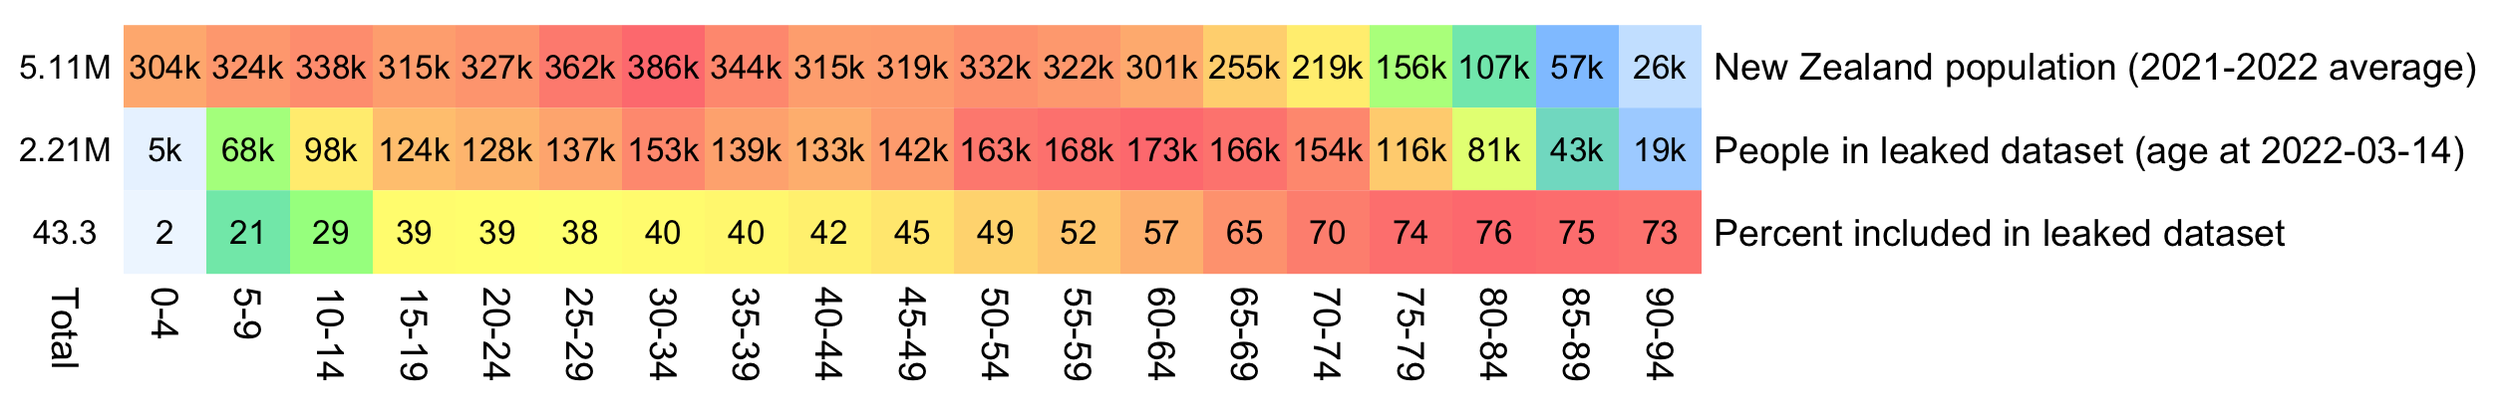
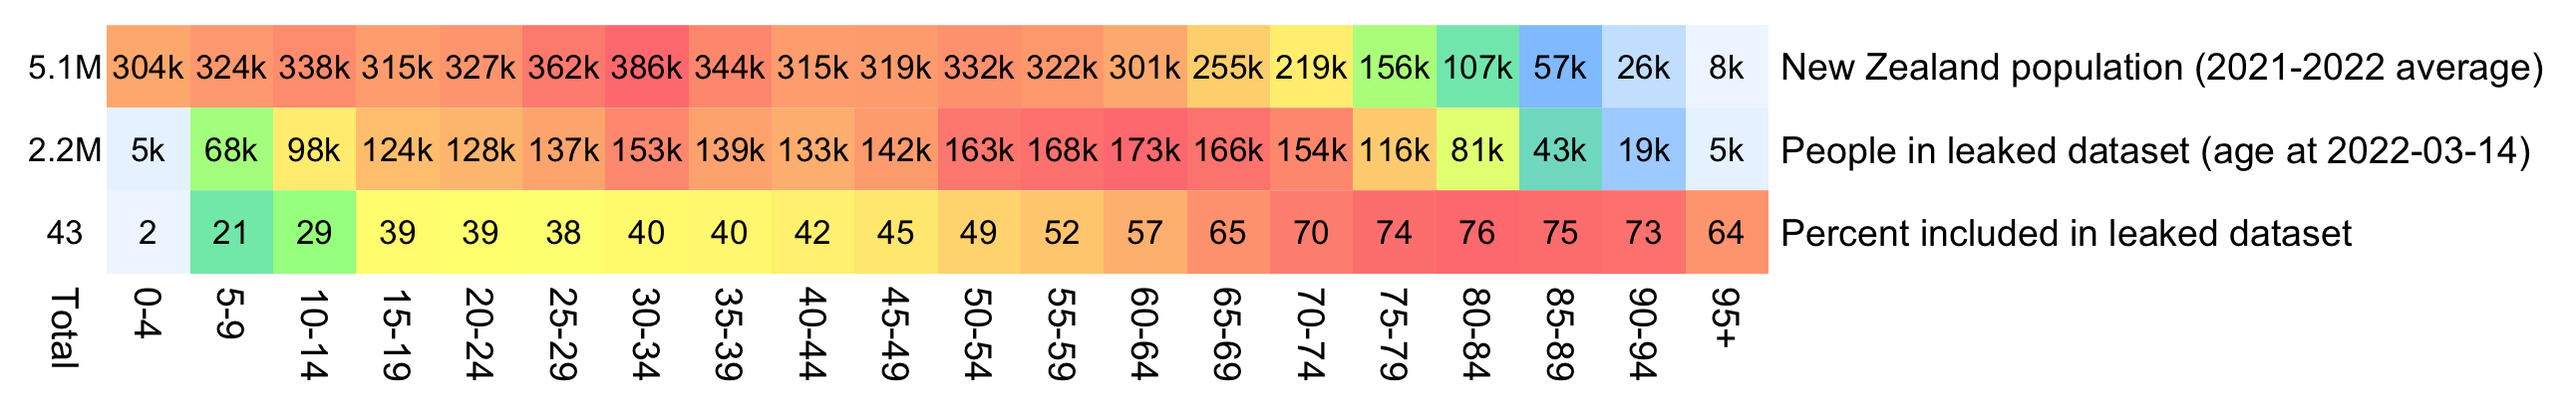
a

Changed region(s): [[0.0, 0.0624, 0.9917, 0.9353], [0.0, 0.8106, 0.031, 0.8729], [0.0, 0.7482, 0.031, 0.7794]]

diff --git a/moar.html b/moar.html
@@ -51,6 +51,7 @@ th{background:#eee;text-align:left;font-weight:bold}
 <li><a href=#Background>Background</a></li>
 <li><a href=#The_data_is_obfuscated_and_only_contains_records_from_a_pay_per_dose_system>The data is obfuscated and only contains records from a pay-per-dose system</a></li>
 <li><a href=#Reverse_engineering_the_age_column>Reverse engineering the age column</a></li>
+<li><a href=#Representation_of_age_groups_in_the_dataset>Representation of age groups in the dataset</a></li>
 <li><a href=#Anomalies_in_the_CSV_file>Anomalies in the CSV file</a></li>
 </ul></li>
 <li><a href=#Barry_Youngs_interview_with_Liz_Gunn>Barry Young's interview with Liz Gunn</a>
@@ -80,7 +81,7 @@ th{background:#eee;text-align:left;font-weight:bold}
 <li><a href=#Tweet_by_Kirsch_about_excess_mortality_in_2021_2023>Tweet by Kirsch about excess mortality in 2021-2023</a></li>
 <li><a href=#Tweet_about_excess_deaths_by_Clare_Craig>Tweet about excess deaths by Clare Craig</a></li>
 <li><a href=#Errors_in_Kirschs_analysis>Errors in Kirsch's analysis</a></li>
-<li><a href=#Research_by_other_people>Research by other people</a></li>
+<li><a href=#Tweets_by_Uncle_John_Returns>Tweets by Uncle John Returns</a></li>
 </ul></li>
 </ul>
 
@@ -177,6 +178,71 @@ Anyone doing serious work on the data should always use the date of birth to com
  15785  15744  14393  14328  13802  13661  12171  11858  11384  11250  10947
     48     47     30     38     37     31     32     33
  10782  10624  10494  10359  10178   9610   9323   9300</pre>
+<h3>
+<a href=#Representation_of_age_groups_in_the_dataset id=Representation_of_age_groups_in_the_dataset>Representation of age groups in the dataset</a>
+</h3>
+<p>WelcomeTheEagle made this image which appears to show that Young's dataset includes almost all of the New Zealand population aged 85 and above: [<a href="https://welcometheeagle.substack.com/p/p6-new-zealand-data-why-is-youth">https://welcometheeagle.substack.com/p/p6-new-zealand-data-why-is-youth</a>]</p>
+<div class="width9">
+<img src="i/moar-eagle.jpg">
+</div>
+<p>However WelcomeTheEagle got the age of each person from the value of the age column, which is the age on approximately December 2nd or 1st 2023, which can be up to three years higher than the age of people at the beginning of the dataset in 2021.</p>
+<p>The average vaccination date included in the dataset is on 2022-03-14, so when I calculated the age of each person on that date instead, I only got about 73% people included in the age group 90-94:</p>
+<div class="width9">
+<img src="i/moar-age-representation.png">
+</div>
+<p>But when I calculated the age on 2023-12-02, I got over 100% people included in the age groups 90-94 and 95+:</p>
+<div class="width9">
+<img src="i/moar-age-representation-2.png">
+</div>
+<p>An even more accurate way to calculate the age composition would be to calculate the total person-years within each age group, and then divide it by the ratio between total person-years and total people (which is about 1.7):</p>
+<div class="width9">
+<img src="i/moar-age-representation-3.png">
+</div>
+<pre>pop=tail(read.csv(&quot;https://mongol-fi.github.io/f/nz_infoshare_population.csv&quot;),2)[,-1]|&gt;colMeans()
+
+m=data.frame(&#39;New Zealand population (2021-2022 average)&#39;=tapply(pop,0:95%/%5*5,sum),check.names=F)
+rownames(m)=paste0(seq(0,94,5),&quot;-&quot;,seq(4,94,5))|&gt;c(&quot;95+&quot;)
+
+t=as.data.frame(data.table::fread(&quot;nz-record-level-data-4M-records.csv&quot;))
+for(i in grep(&quot;date&quot;,colnames(t)))t[,i]=as.Date(t[,i],&quot;%m-%d-%Y&quot;)
+meandate=mean(t$date_time_of_service)
+meandate=as.Date(&quot;2023-12-2&quot;)
+birth=t$date_of_birth[!duplicated(t$mrn)]
+yeardiff=\(x,y)as.numeric(substring(x,1,4))-as.numeric(substring(y,1,4))-as.integer(substring(x,6,12)&lt;substring(y,6,12))
+age=table(pmax(0,pmin(yeardiff(meandate,birth),95)%/%5*5))
+
+t=t[order(t$date_time_of_service),]
+t=t[!duplicated(t$mrn),]
+meandays=mean(as.numeric(pmin(t$date_of_death,max(t$date_of_death,na.rm=T),na.rm=T)-t$date_time_of_service))
+
+buck=read.table(&quot;data-transparency/New Zealand/time-series summaries/month_dose_week_single_age.txt&quot;,header=T)
+buck=buck[buck$dose!=0,]
+age=tapply(buck$alive,pmin(95,buck$age)%/%5*5,sum)/meandays
+
+m[[paste0(&quot;People in leaked dataset (based on person-days)&quot;)]]=age
+m$&quot;Percent included in leaked dataset&quot;=m[,2]/m[,1]*100
+
+disp=apply(m,2,\(x)ifelse(x&gt;1e3,paste0(round(x/1e3),&quot;k&quot;),round(x)))
+sum=colSums(m)
+disp=rbind(paste0(round(sum[1:2]/1e6,1),&quot;M&quot;)|&gt;c(round(sum[2]/sum[1]*100)),disp)
+m=rbind(Total=0,apply(m,2,\(x)x/max(x)))
+
+pheatmap::pheatmap(
+  t(m),
+  filename=&quot;1.png&quot;,
+  cluster_rows=F,
+  cluster_cols=F,
+  legend=F,
+  cellwidth=20,
+  cellheight=20,
+  fontsize=9,
+  border_color=NA,
+  display_numbers=t(disp),
+  fontsize_number=8,
+  number_color=&quot;black&quot;,
+  breaks=seq(0,1,,256),
+  colorRampPalette(colorspace::hex(colorspace::HSV(c(210,210,130,60,40,20,0),c(0,.5,.5,.5,.5,.5,.5),1)))(256)
+)</pre>
 <h3>
 <a href=#Anomalies_in_the_CSV_file id=Anomalies_in_the_CSV_file>Anomalies in the CSV file</a>
 </h3>
@@ -695,24 +761,24 @@ ggsave(&quot;1.png&quot;,width=5.5,height=3.5,dpi=400)</pre>
 <div class="width8">
 <img src="i/moar-baseline.jpg">
 </div>
-<p>And similarly for ages 75-84, Kirsch's baseline based on the average CMR on weeks 3-5 is 4,393, but the average CMR at Mortality Watch in 2021-2022 is about 3,754, which is again lower. However the reason why the baselines seem too low could partially be because ages 65-69 are underrepresented in the New Zealand dataset compared to ages 70-74, and ages 75-79 are underrepresented compared to ages 80-84:</p>
+<p>One reason why the baseline seems too low might be because ages 65-69 are underrepresented in Young's dataset compared to ages 70-74:</p>
 <div class="width9">
-<img src="i/moar-age-representation.png">
+<img src="i/moar-age-representation-3.png">
 </div>
 <h3>
 <a href=#Using_a_variable_baseline_CMR_based_on_age_composition id=Using_a_variable_baseline_CMR_based_on_age_composition>Using a variable baseline CMR based on age composition</a>
 </h3>
 <p>I developed a new method to calculate the baseline for crude mortality rate so that it depends on the age composition of the cohort. I downloaded files for the yearly number of deaths and population numbers in single-year age groups in New Zealand. [<a href="https://infoshare.stats.govt.nz/SelectVariables.aspx?pxID=49d62bb5-9aae-40a6-ab81-e904ecb2bf2c">https://infoshare.stats.govt.nz/SelectVariables.aspx?pxID=49d62bb5-9aae-40a6-ab81-e904ecb2bf2c</a>, <a href="https://infoshare.stats.govt.nz/SelectVariables.aspx?pxID=2d42f80c-5a61-4cb6-9db0-f22da77c5023">https://infoshare.stats.govt.nz/SelectVariables.aspx?pxID=2d42f80c-5a61-4cb6-9db0-f22da77c5023</a>] I combined the files to calculate average CMR in 2021-2022. The maximum age that was included in both files was 94, so I used LOESS regression to extend the CMR values to age 120. Then I calculated a weighted average of the CMR values for each age weighted by the number of people of the age in the cohort. So for example the CMR in 2021-2022 was about 5403 for age 82 and about 6173 for age 83, so if I had a set of people with 123 82-year-olds and 234 83-year-olds, I calculated the weighted average as <code>(5403*123+6173*234)/(123+234)</code>.</p>
-<p>Kirsch said that the data from New Zealand showed that the vaccines were killing people because the crude mortality rate peaked about 20-25 weeks after vaccination. However based on my new method for calculating the baseline for the CMR, at 22 weeks after vaccination when the CMR peaked in all doses aggregated together, the CMR was actually below the baseline:</p>
-<div class="width6">
+<p>Kirsch said that the data from New Zealand showed that the vaccines were killing people because the crude mortality rate peaked about 20-25 weeks after vaccination. However based on my new method for calculating a variable baseline for the CMR, at 22 weeks after vaccination when the CMR peaked in all doses aggregated together, the CMR was actually below the baseline:</p>
+<div class="width7">
 <img src="i/moar-cmr-composition-baseline.png">
 </div>
-<p>From the plot above you can also see that for doses 1-3, the actual CMR for each week after vaccination seems to follow the baseline fairly closely, so that around weeks 30-80 when the CMR of each dose is low because the average age is low, the baseline is also low. For some reason dose 1 remains above the baseline from around week 5 to week 25, but all other doses are below the baseline for the first 20 weeks.</p>
+<p>From the plot above you can also see that for doses 1-3, the actual CMR for each week after vaccination seems to follow the baseline fairly closely, so that around weeks 30-80 when the CMR of each dose is low, the baseline is also low because the average age is low. For some reason dose 1 remains above the baseline from around week 5 to week 25, but all other doses are below the baseline for the first 20 weeks.</p>
 <p>This plot also shows the excess CMR relative to the baseline:</p>
-<div class="width6">
+<div class="width7">
 <img src="i/moar-cmr-composition-baseline-2.png">
 </div>
-<p>Actually my new method might be a more accurate way to calculate excess age-normalized mortality than ASMR, because ASMR is usually calculated based on 5-year age bands, but in Young's data the lower ends of age bands are underrepresented compared to the upper ends of age bands. And ASMR also has the problem that the overall mortality rate can get inflated if some age group has a small population size and non-zero deaths, so you sometimes have to exclude small age groups from the calculation or exclude cohorts where there's one or more small age group with non-zero deaths. For example if you use the 2013 European Standard Population where the age band 15-19 makes up 5500 people per 100,000, and if you have a cohort which includes a thousand people but they are mostly elderly so there's only one one person in the age group 15-19, then 5500 is added to the total ASMR if the one person dies. However my new method does not suffer from the same problem.</p>
+<p>Actually my new method might be a more accurate way to calculate excess age-normalized mortality than ASMR, because ASMR is usually calculated based on 5-year age bands, but in Young's data the lower ends of age bands are underrepresented compared to the upper ends of age bands. And ASMR also has the problem that the overall mortality rate can get inflated if some age group has a small population size and non-zero deaths, so you sometimes have to exclude small age groups from the calculation or you have to exclude cohorts where there's one or more small age group with non-zero deaths. For example if you use the 2013 European Standard Population where the age band 15-19 makes up 5,500 people out of a total population of 100,000, and if you have a cohort which includes a thousand people but they are mostly elderly so there's only one one person in the age group 15-19, then 5,500 is added to the total ASMR if the one person dies. However my new method does not suffer from the same problem.</p>
 <pre>library(ggplot2)
 
 t=read.table(&quot;data-transparency/New Zealand/time-series summaries/month_dose_week_single_age.txt&quot;,header=T)
@@ -1371,21 +1437,17 @@ ggsave(&quot;1.png&quot;,width=5.8,height=4.5)</pre>
 <h3>
 <a href=#Errors_in_Kirschs_analysis id=Errors_in_Kirschs_analysis>Errors in Kirsch's analysis</a>
 </h3>
-<p>One minor error in the file <code>all_group_by_decade v4.xlsx</code> is that it says that there were about 921 million man-years in the first 6 months after a vaccine dose, because actually it's person-days and not person-years because Kirsch forgot to divide the number by 365. And it also extends from week 0 to 48 so it's about 11 months and not 6 months:</p>
+<p>In the file <code>all_group_by_decade v4.xlsx</code>, one minor error is that it says that there were about 921 million man-years in the first 6 months after a vaccine dose. Actually it's person-days and not person-years, because Kirsch forgot to divide the number by 365. And the formula used to generate the cell also extends from week 0 to 48, which is about 11 months and not 6 months:</p>
 <div class="width6">
 <img src="i/moar-kirsch-error.jpg">
 </div>
 <p>The <span class="quote">&quot;deaths in first 12 months after shot&quot;</span> cell is also calculated based on weeks 0 to 48, so it's closer to 11 months than a year.</p>
-<p>However the actual data does match the figure of about 921 million person-days or about 2.5 million person-years:</p>
+<p>However the figure of about 921 million person-days seems to be correct, because it matches the files generated by <code>buckets.py</code> (but you have to exclude dose 0 which is used for people who have not yet gotten any dose included in the dataset):</p>
 <pre>$ awk &#39;NR&gt;1&amp;&amp;$2!=0&amp;&amp;$3&lt;=48{s+=$5}END{print s,s/365}&#39; data-transparency/New\ Zealand/time-series\ summaries/all_group_by_decade.txt
 921646785 2.52506e+06</pre>
 <h3>
-<a href=#Research_by_other_people id=Research_by_other_people>Research by other people</a>
+<a href=#Tweets_by_Uncle_John_Returns id=Tweets_by_Uncle_John_Returns>Tweets by Uncle John Returns</a>
 </h3>
-<p>WelcomeTheEagle made an interactive dashboard for browsing the data. [<a href="https://www.vaersaware.com/new-zealand">https://www.vaersaware.com/new-zealand</a>] He also made the table below which shows that Young's dataset seems to include almost all of the New Zealand population aged 85 and above, but more than half of the population is missing in age groups 50-54 and below (where the <span class="quote">&quot;VAXXED&quot;</span> column shows the number of people included in Young's dataset and not all vaccinated people): [<a href="https://twitter.com/welcometheeagle/status/1731965868505276654/">https://twitter.com/welcometheeagle/status/1731965868505276654/</a>]</p>
-<div class="width9">
-<img src="i/moar-eagle.jpg">
-</div>
 <p>Uncle John Returns calculated monthly ASMR values and compared them to ASMR values from Mortality Watch: [<a href="https://twitter.com/UncleJo46902375/status/1732496623123517742">https://twitter.com/UncleJo46902375/status/1732496623123517742</a>]</p>
 <div class="width6">
 <img src="i/moar-uncle-0.png">
